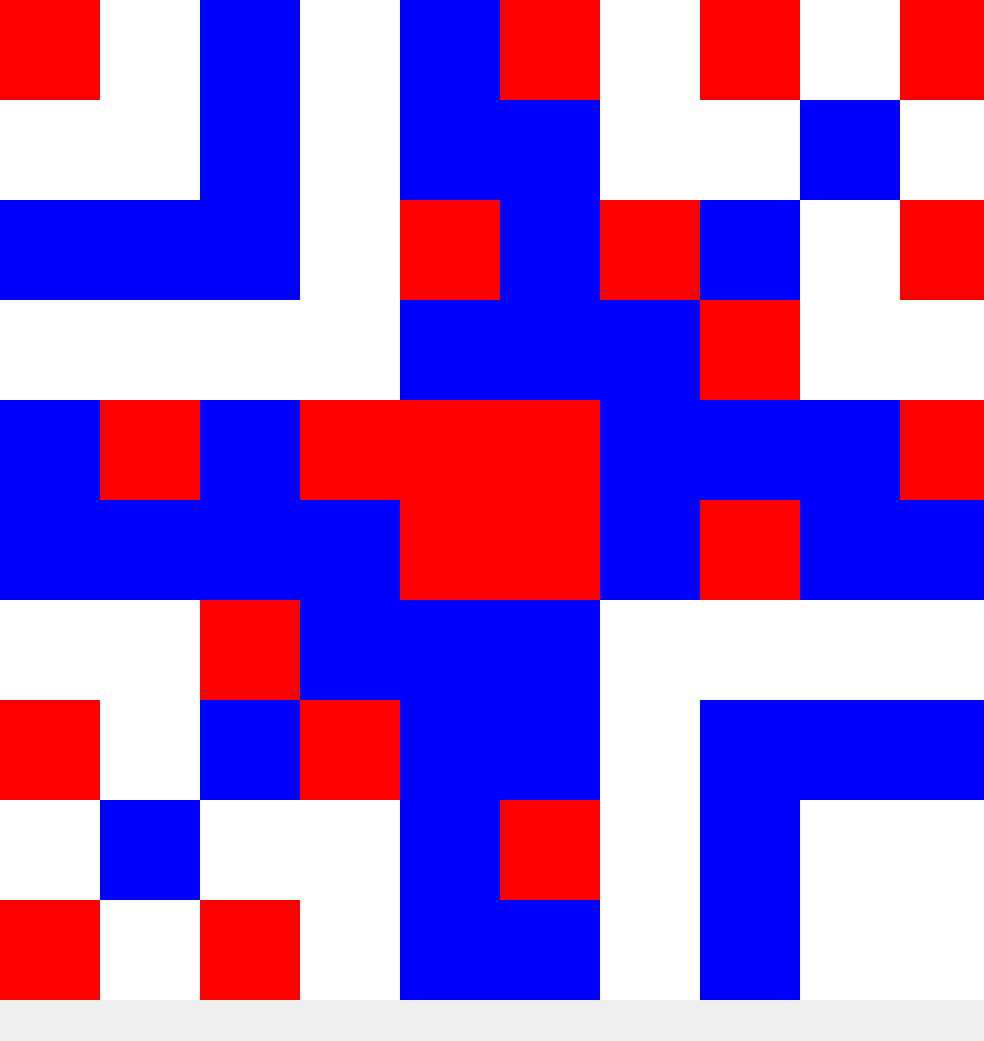
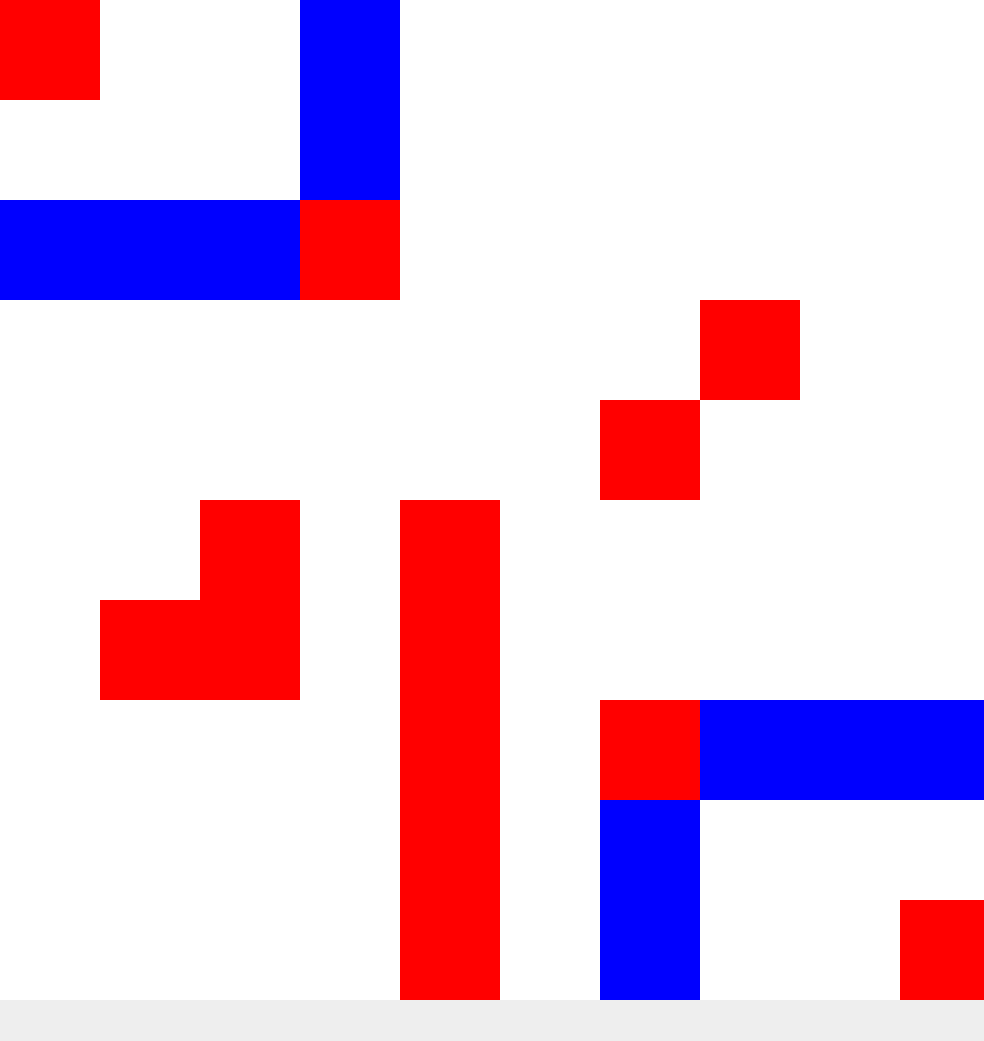
맵기본

diff --git a/src/CrazyArcade/MapData.java b/src/CrazyArcade/MapData.java
@@ -12,15 +12,20 @@ public class MapData {
 
 	public void setMap(int mapNum) {
 		if (mapNum == 1) {
-//			mContext.panelArray[0][2].setBackground(Color.blue);
-			mContext.panelArray[1][2].setBackground(Color.blue);
-			mContext.panelArray[2][2].setBackground(Color.blue);
-			mContext.panelArray[2][1].setBackground(Color.blue);
+			mContext.panelArray[0][0].setBackground(Color.red);
+			mContext.panelArray[0][3].setBackground(Color.blue);
+			mContext.panelArray[1][3].setBackground(Color.blue);
 			mContext.panelArray[2][0].setBackground(Color.blue);
-			mContext.panelArray[7][9].setBackground(Color.blue);
-			mContext.panelArray[7][8].setBackground(Color.blue);
+			mContext.panelArray[2][1].setBackground(Color.blue);
+			mContext.panelArray[2][2].setBackground(Color.blue);
+			mContext.panelArray[2][3].setBackground(Color.red);
+			mContext.panelArray[7][6].setBackground(Color.red);
 			mContext.panelArray[7][7].setBackground(Color.blue);
-			mContext.panelArray[8][7].setBackground(Color.blue);
+			mContext.panelArray[7][8].setBackground(Color.blue);
+			mContext.panelArray[7][9].setBackground(Color.blue);
+			mContext.panelArray[8][6].setBackground(Color.blue);
+			mContext.panelArray[9][6].setBackground(Color.blue);
+			mContext.panelArray[9][9].setBackground(Color.red);
 //			mContext.mContext.panelArray[9][7].setBackground(Color.blue);
 
 			mContext.panelArray[4][4].setBackground(Color.red);
@@ -37,14 +42,14 @@ public class MapData {
 			}
 			// 1
 
-			mContext.panelArray[0][2].setBackground(Color.blue);
+			mContext.panelArray[0][3].setBackground(Color.blue);
 			mContext.panelArray[0][4].setBackground(Color.blue);
 			mContext.panelArray[0][5].setBackground(Color.red);
 			mContext.panelArray[0][7].setBackground(Color.red);
 			mContext.panelArray[0][9].setBackground(Color.red);
 
 			// 2행
-			mContext.panelArray[1][2].setBackground(Color.blue);
+			mContext.panelArray[1][3].setBackground(Color.blue);
 			mContext.panelArray[1][4].setBackground(Color.blue);
 			mContext.panelArray[1][5].setBackground(Color.blue);
 			mContext.panelArray[1][8].setBackground(Color.blue);
@@ -53,6 +58,7 @@ public class MapData {
 			mContext.panelArray[2][0].setBackground(Color.blue);
 			mContext.panelArray[2][1].setBackground(Color.blue);
 			mContext.panelArray[2][2].setBackground(Color.blue);
+			mContext.panelArray[2][3].setBackground(Color.blue);
 			mContext.panelArray[2][4].setBackground(Color.red);
 			mContext.panelArray[2][5].setBackground(Color.blue);
 			mContext.panelArray[2][6].setBackground(Color.red);
@@ -101,6 +107,7 @@ public class MapData {
 			mContext.panelArray[7][3].setBackground(Color.red);
 			mContext.panelArray[7][4].setBackground(Color.blue);
 			mContext.panelArray[7][5].setBackground(Color.blue);
+			mContext.panelArray[7][6].setBackground(Color.blue);
 			mContext.panelArray[7][7].setBackground(Color.blue);
 			mContext.panelArray[7][8].setBackground(Color.blue);
 			mContext.panelArray[7][9].setBackground(Color.blue);
@@ -109,89 +116,102 @@ public class MapData {
 			mContext.panelArray[8][1].setBackground(Color.blue);
 			mContext.panelArray[8][4].setBackground(Color.blue);
 			mContext.panelArray[8][5].setBackground(Color.red);
-			mContext.panelArray[8][7].setBackground(Color.blue);
+			mContext.panelArray[8][6].setBackground(Color.blue);
 
 			// 10행
 			mContext.panelArray[9][0].setBackground(Color.red);
 			mContext.panelArray[9][2].setBackground(Color.red);
 			mContext.panelArray[9][4].setBackground(Color.blue);
 			mContext.panelArray[9][5].setBackground(Color.blue);
-			mContext.panelArray[9][7].setBackground(Color.blue);
+			mContext.panelArray[9][6].setBackground(Color.blue);
 
 		} else if (mapNum == 3) {
 			// 1행
-			mContext.panelArray[0][2].setBackground(Color.red);
+			mContext.panelArray[0][3].setBackground(Color.blue);
 			mContext.panelArray[0][4].setBackground(Color.blue);
 			mContext.panelArray[0][5].setBackground(Color.blue);
 
 			// 2행
-			mContext.panelArray[1][2].setBackground(Color.blue);
+			mContext.panelArray[1][3].setBackground(Color.blue);
 			mContext.panelArray[1][4].setBackground(Color.blue);
 			mContext.panelArray[1][5].setBackground(Color.blue);
 			mContext.panelArray[1][7].setBackground(Color.red);
 
 			// 3행
-			mContext.panelArray[2][2].setBackground(Color.red);
+			mContext.panelArray[2][0].setBackground(Color.blue);
+			mContext.panelArray[2][1].setBackground(Color.blue);
+			mContext.panelArray[2][2].setBackground(Color.blue);
+			mContext.panelArray[2][3].setBackground(Color.blue);
 			mContext.panelArray[2][4].setBackground(Color.blue);
 			mContext.panelArray[2][5].setBackground(Color.blue);
 
 			// 4행
-			mContext.panelArray[3][2].setBackground(Color.blue);
 			mContext.panelArray[3][4].setBackground(Color.blue);
 			mContext.panelArray[3][5].setBackground(Color.blue);
 			mContext.panelArray[3][7].setBackground(Color.red);
 
 			// 5행
-			mContext.panelArray[4][0].setBackground(Color.red);
-			mContext.panelArray[4][1].setBackground(Color.blue);
-			mContext.panelArray[4][2].setBackground(Color.red);
 			mContext.panelArray[4][4].setBackground(Color.blue);
 			mContext.panelArray[4][5].setBackground(Color.blue);
 
 			// 6행
 			mContext.panelArray[5][4].setBackground(Color.blue);
 			mContext.panelArray[5][5].setBackground(Color.blue);
-			mContext.panelArray[5][7].setBackground(Color.red);
-			mContext.panelArray[5][8].setBackground(Color.blue);
-			mContext.panelArray[5][9].setBackground(Color.red);
 
 			// 7행
 			mContext.panelArray[6][2].setBackground(Color.red);
 			mContext.panelArray[6][4].setBackground(Color.blue);
 			mContext.panelArray[6][5].setBackground(Color.blue);
-			mContext.panelArray[6][7].setBackground(Color.blue);
 
 			// 8행
 			mContext.panelArray[7][4].setBackground(Color.blue);
 			mContext.panelArray[7][5].setBackground(Color.blue);
-			mContext.panelArray[7][7].setBackground(Color.red);
+			mContext.panelArray[7][6].setBackground(Color.blue);
+			mContext.panelArray[7][7].setBackground(Color.blue);
+			mContext.panelArray[7][8].setBackground(Color.blue);
+			mContext.panelArray[7][9].setBackground(Color.blue);
 
 			// 9행
 			mContext.panelArray[8][2].setBackground(Color.red);
 			mContext.panelArray[8][4].setBackground(Color.blue);
 			mContext.panelArray[8][5].setBackground(Color.blue);
-			mContext.panelArray[8][7].setBackground(Color.blue);
+			mContext.panelArray[8][6].setBackground(Color.blue);
 
 			// 10행
 			mContext.panelArray[9][4].setBackground(Color.blue);
 			mContext.panelArray[9][5].setBackground(Color.blue);
-			mContext.panelArray[9][7].setBackground(Color.red);
+			mContext.panelArray[9][6].setBackground(Color.blue);
+			mContext.panelArray[9][9].setBackground(Color.red);
 		} else if (mapNum == 4) {
-			mContext.panelArray[0][1].setBackground(Color.blue);
-			mContext.panelArray[1][0].setBackground(Color.blue);
-			mContext.panelArray[1][2].setBackground(Color.blue);
+			mContext.panelArray[0][0].setBackground(Color.red);
+			mContext.panelArray[0][3].setBackground(Color.blue);
+			mContext.panelArray[1][3].setBackground(Color.blue);
+			mContext.panelArray[2][0].setBackground(Color.blue);
+			mContext.panelArray[2][1].setBackground(Color.blue);
 			mContext.panelArray[2][2].setBackground(Color.blue);
-			mContext.panelArray[3][1].setBackground(Color.blue);
-			mContext.panelArray[4][0].setBackground(Color.blue);
-			mContext.panelArray[5][8].setBackground(Color.blue);
-			mContext.panelArray[6][7].setBackground(Color.blue);
-			mContext.panelArray[6][9].setBackground(Color.blue);
+			mContext.panelArray[2][3].setBackground(Color.red);
+			mContext.panelArray[7][6].setBackground(Color.red);
 			mContext.panelArray[7][7].setBackground(Color.blue);
-			mContext.panelArray[8][8].setBackground(Color.blue);
-			mContext.panelArray[9][9].setBackground(Color.blue);
-
+			mContext.panelArray[7][8].setBackground(Color.blue);
+			mContext.panelArray[7][9].setBackground(Color.blue);
+			mContext.panelArray[8][6].setBackground(Color.blue);
+			mContext.panelArray[9][6].setBackground(Color.blue);
+			mContext.panelArray[9][9].setBackground(Color.red);
 		} else if (mapNum == 0) {
-
+			mContext.panelArray[0][0].setBackground(Color.red);
+			mContext.panelArray[0][3].setBackground(Color.blue);
+			mContext.panelArray[1][3].setBackground(Color.blue);
+			mContext.panelArray[2][0].setBackground(Color.blue);
+			mContext.panelArray[2][1].setBackground(Color.blue);
+			mContext.panelArray[2][2].setBackground(Color.blue);
+			mContext.panelArray[2][3].setBackground(Color.red);
+			mContext.panelArray[7][6].setBackground(Color.red);
+			mContext.panelArray[7][7].setBackground(Color.blue);
+			mContext.panelArray[7][8].setBackground(Color.blue);
+			mContext.panelArray[7][9].setBackground(Color.blue);
+			mContext.panelArray[8][6].setBackground(Color.blue);
+			mContext.panelArray[9][6].setBackground(Color.blue);
+			mContext.panelArray[9][9].setBackground(Color.red);
 		}
 	}
 }

diff --git a/src/CrazyArcade/MainFrame.java b/src/CrazyArcade/MainFrame.java
@@ -119,6 +119,7 @@ public class MainFrame extends JFrame {
 
 		boolean flag = true;
 		mapData = new MapData(mContext);
+		mapData.setMap(0);
 		while (flag) {
 			Scanner sc = new Scanner(System.in);
 			int mapNum = sc.nextInt();
